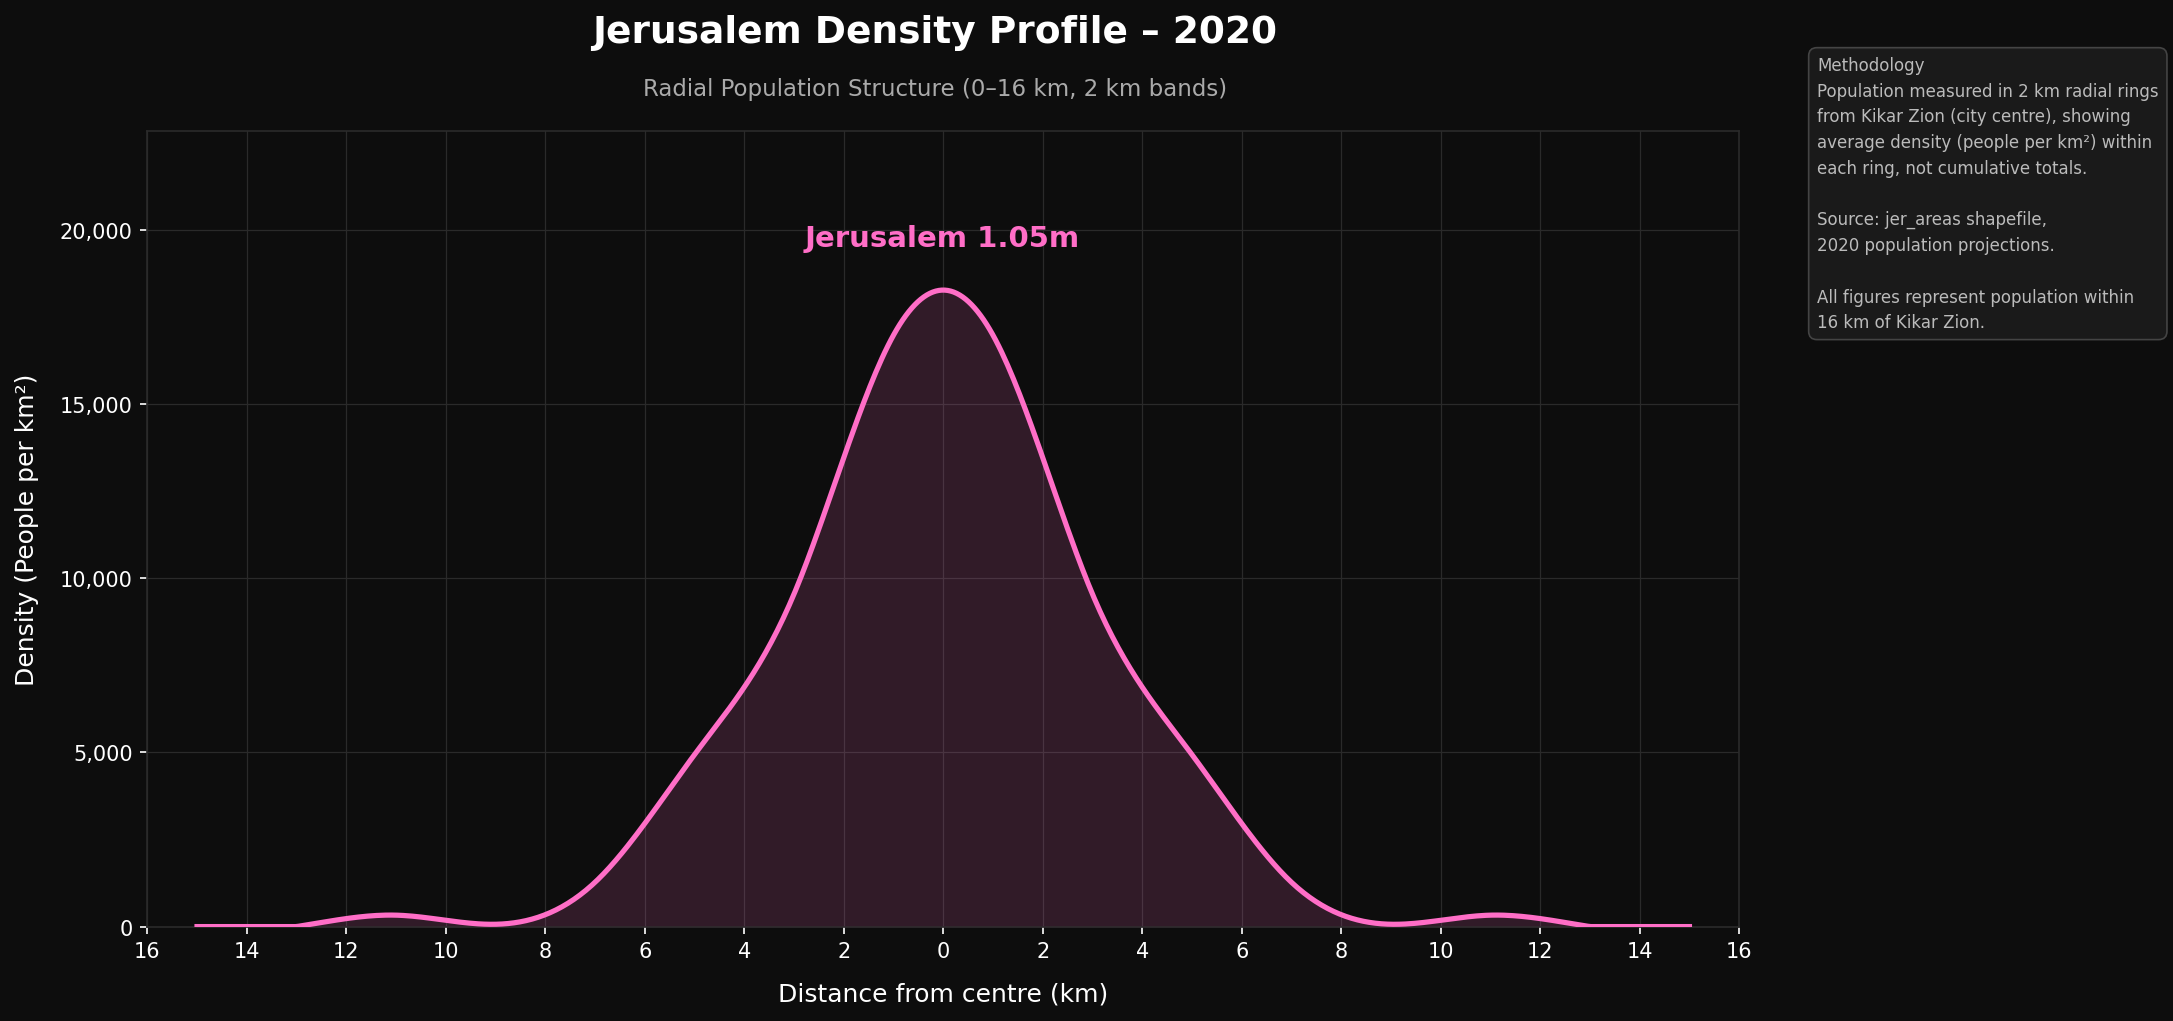
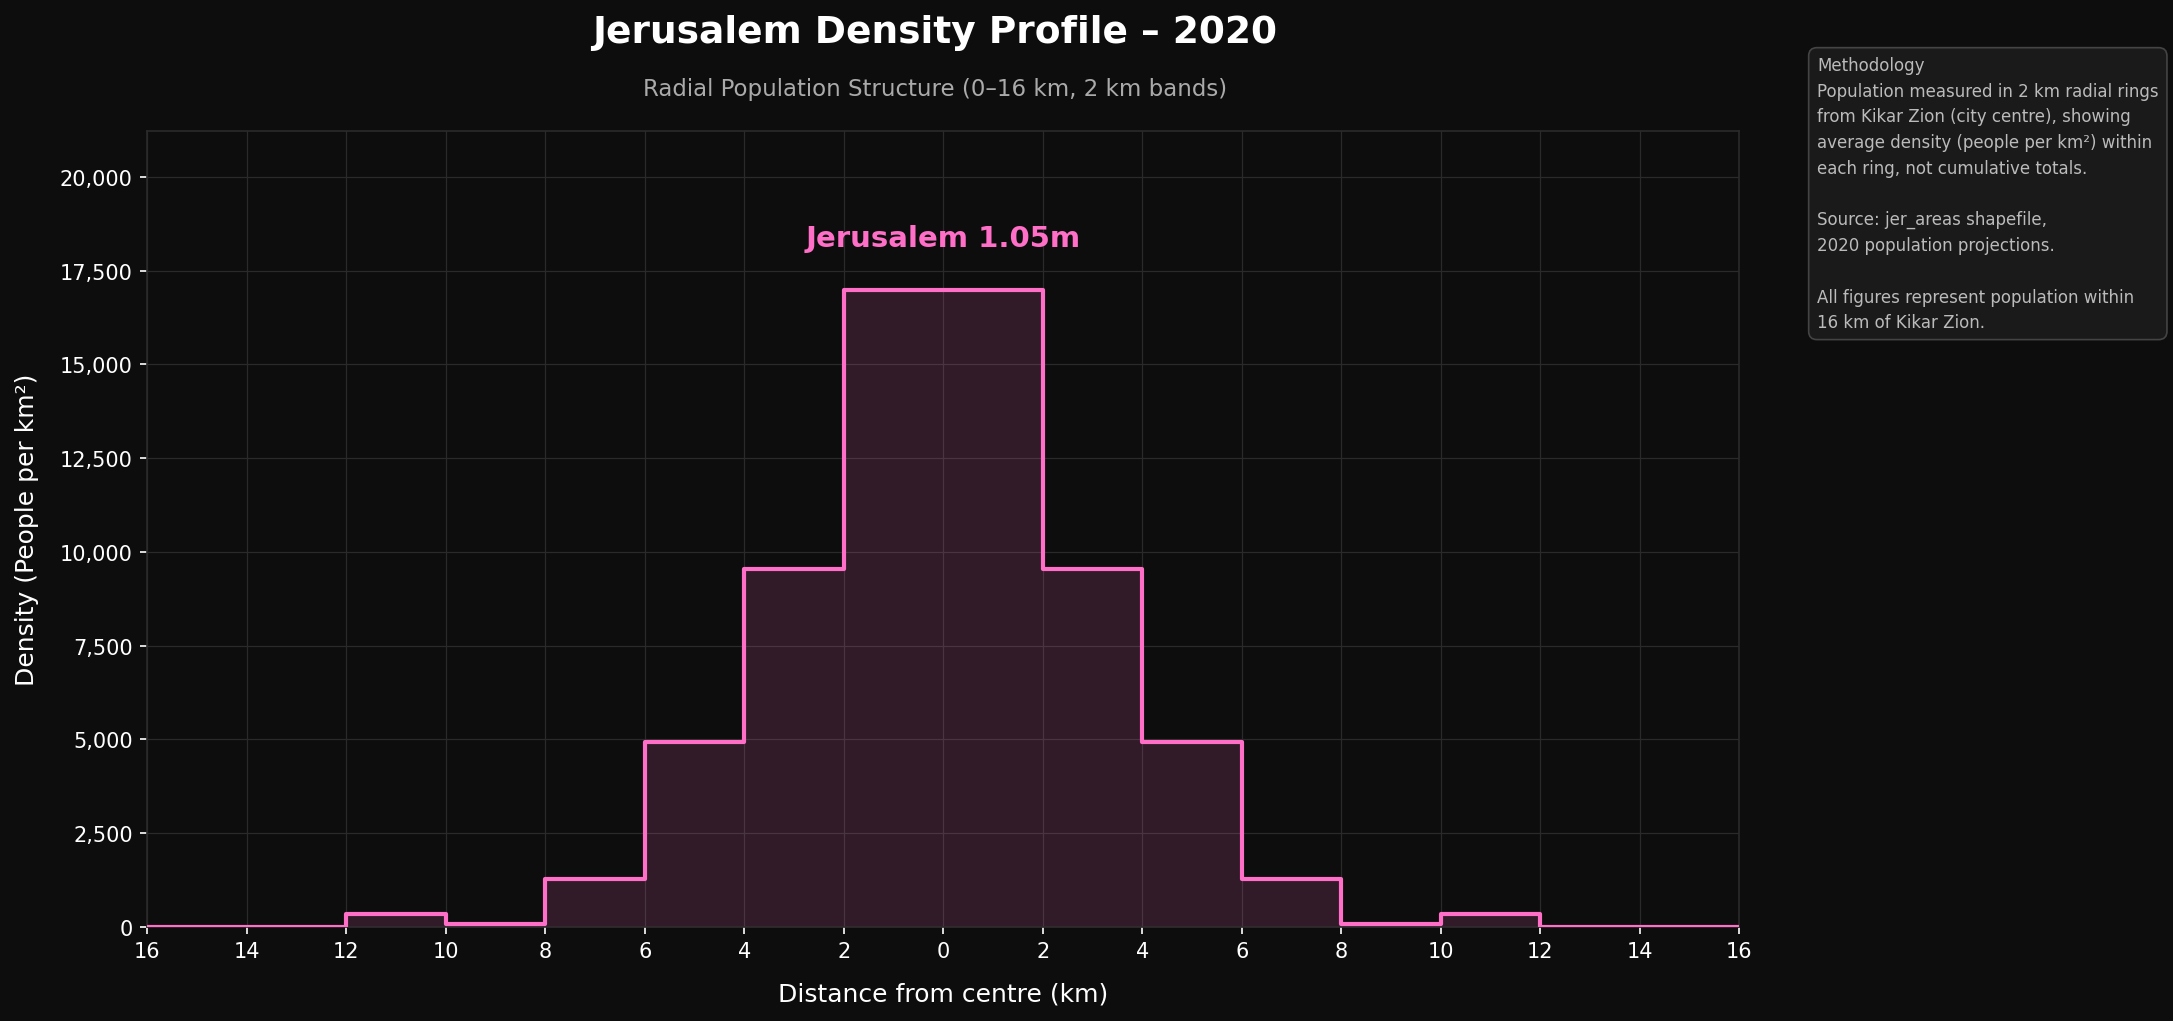
Fix density profiles: replace spline with discrete ring steps
All profile scripts now use flat step arrays (one constant value per 2 km
ring) instead of cubic spline interpolation between midpoints. The previous
approach created artificially smooth curves that implied continuous data
where there are only 8 discrete ring measurements.

https://claude.ai/code/session_01Wkc3oYCRGuMqTiP78fZipH

diff --git a/population_figure/asymmetric_profile.py b/population_figure/asymmetric_profile.py
@@ -13,7 +13,6 @@ import geopandas as gpd
 import matplotlib
 matplotlib.use("Agg")
 import matplotlib.pyplot as plt
-from scipy.interpolate import make_interp_spline
 from shapely.geometry import Point
 import os
 
@@ -86,64 +85,51 @@ print(f"\n  Jewish densities: {[f'{d:,.0f}' for d in jewish_dens]}")
 print(f"  Arab   densities: {[f'{d:,.0f}' for d in arab_dens]}")
 print(f"  Jewish total: {jewish_total:,.0f}   Arab total: {arab_total:,.0f}")
 
-# ── Build asymmetric x / y ────────────────────────────────────────────────────
-# Left  (negative x) = Jewish, reading outward from centre to left
-# Right (positive x) = Arab,   reading outward from centre to right
-x_left  = -midpoints[::-1]          # -15, -13, …, -1
-x_right =  midpoints                #   1,   3, …,  15
+# ── Build step arrays for each side ──────────────────────────────────────────
+rw = RING_WIDTH / 1000  # 2 km
 
-y_left  = np.array(jewish_dens[::-1])
-y_right = np.array(arab_dens)
+def steps_left(dens):
+    x, y = [], []
+    for r in range(len(dens) - 1, -1, -1):
+        x += [-(r + 1) * rw, -r * rw]
+        y += [dens[r], dens[r]]
+    return np.array(x), np.array(y)
 
-x = np.concatenate([x_left, x_right])
-y = np.concatenate([y_left, y_right])
+def steps_right(dens):
+    x, y = [], []
+    for r in range(len(dens)):
+        x += [r * rw, (r + 1) * rw]
+        y += [dens[r], dens[r]]
+    return np.array(x), np.array(y)
 
-x_s = np.linspace(x[0], x[-1], 500)
-y_s = np.clip(make_interp_spline(x, y, k=3)(x_s), 0, None)
-
-# Separate smooth halves for individual fills
-mask_left  = x_s <= 0
-mask_right = x_s >= 0
+xl, yl = steps_left(jewish_dens)
+xr, yr = steps_right(arab_dens)
 
 # ── Plot ──────────────────────────────────────────────────────────────────────
 fig, ax = plt.subplots(figsize=(14, 7), facecolor=BG_COLOR)
 ax.set_facecolor(BG_COLOR)
 
-# Left (Jewish) – cyan
-ax.plot(x_s[mask_left],  y_s[mask_left],  color=JEWISH_COLOR, linewidth=2.5, zorder=3)
-ax.fill_between(x_s[mask_left], y_s[mask_left], alpha=0.15, color=JEWISH_COLOR, zorder=2)
+ax.plot(xl, yl, color=JEWISH_COLOR, linewidth=2.0, zorder=3)
+ax.fill_between(xl, yl, alpha=0.15, color=JEWISH_COLOR, zorder=2)
 
-# Right (Arab) – orange
-ax.plot(x_s[mask_right], y_s[mask_right], color=ARAB_COLOR,   linewidth=2.5, zorder=3)
-ax.fill_between(x_s[mask_right], y_s[mask_right], alpha=0.15, color=ARAB_COLOR, zorder=2)
+ax.plot(xr, yr, color=ARAB_COLOR, linewidth=2.0, zorder=3)
+ax.fill_between(xr, yr, alpha=0.15, color=ARAB_COLOR, zorder=2)
 
-# Centre divider
 ax.axvline(0, color="#555555", linewidth=0.8, linestyle="--", zorder=4)
 
-# Labels
-jewish_peak_i = int(np.argmax(y_s[mask_left]))
-arab_peak_i   = int(np.argmax(y_s[mask_right]))
-x_lp = x_s[mask_left][jewish_peak_i]
-x_rp = x_s[mask_right][arab_peak_i]
-
-ax.text(x_lp, y_s[mask_left][jewish_peak_i]  * 1.06,
+# Labels at peak ring
+ax.text(-rw / 2, jewish_dens[0] * 1.06,
         f"Jewish  {jewish_total/1e6:.2f}m",
         color=JEWISH_COLOR, fontsize=13, fontweight="bold", ha="center", va="bottom")
-ax.text(x_rp, y_s[mask_right][arab_peak_i] * 1.06,
+ax.text( rw / 2, arab_dens[0] * 1.06,
         f"Arab  {arab_total/1e6:.2f}m",
         color=ARAB_COLOR, fontsize=13, fontweight="bold", ha="center", va="bottom")
-
-# Side labels
-ax.text(-14, ax.get_ylim()[1] * 0.02 if ax.get_ylim()[1] > 0 else 200,
-        "← Jewish", color=JEWISH_COLOR, fontsize=10, alpha=0.6, va="bottom")
-ax.text( 14, ax.get_ylim()[1] * 0.02 if ax.get_ylim()[1] > 0 else 200,
-        "Arab →",   color=ARAB_COLOR,   fontsize=10, alpha=0.6, va="bottom", ha="right")
 
 # Grid & axes
 ax.grid(color=GRID_COLOR, linewidth=0.6, linestyle="-", zorder=1)
 ax.set_axisbelow(True)
 ax.set_xlim(-16, 16)
-ax.set_ylim(0, y_s.max() * 1.28)
+ax.set_ylim(0, max(yl.max(), yr.max()) * 1.28)
 
 x_ticks = list(range(-16, 0, 2)) + list(range(0, 17, 2))
 ax.set_xticks(x_ticks)

diff --git a/population_figure/haredi_vs_jewish_profile.py b/population_figure/haredi_vs_jewish_profile.py
@@ -11,7 +11,6 @@ import geopandas as gpd
 import matplotlib
 matplotlib.use("Agg")
 import matplotlib.pyplot as plt
-from scipy.interpolate import make_interp_spline
 from shapely.geometry import Point
 import os
 
@@ -80,43 +79,49 @@ print(f"\n  Haredi densities:  {[f'{d:,.0f}' for d in haredi_dens]}")
 print(f"  Jewish densities:  {[f'{d:,.0f}' for d in jewish_dens]}")
 print(f"  Haredi total: {haredi_total:,.0f}   Jewish total: {jewish_total:,.0f}")
 
-# ── Smooth asymmetric curves ──────────────────────────────────────────────────
-x_left  = -midpoints[::-1]
-x_right =  midpoints
-x       = np.concatenate([x_left, x_right])
-x_s     = np.linspace(x[0], x[-1], 500)
-mask_l  = x_s <= 0
-mask_r  = x_s >= 0
+# ── Step arrays ───────────────────────────────────────────────────────────────
+rw = RING_WIDTH / 1000
 
-y_h = np.clip(make_interp_spline(x, np.concatenate([haredi_dens[::-1], haredi_dens]), k=3)(x_s), 0, None)
-y_j = np.clip(make_interp_spline(x, np.concatenate([jewish_dens[::-1], jewish_dens]), k=3)(x_s), 0, None)
+def steps_left(dens):
+    x, y = [], []
+    for r in range(len(dens) - 1, -1, -1):
+        x += [-(r + 1) * rw, -r * rw]
+        y += [dens[r], dens[r]]
+    return np.array(x), np.array(y)
+
+def steps_right(dens):
+    x, y = [], []
+    for r in range(len(dens)):
+        x += [r * rw, (r + 1) * rw]
+        y += [dens[r], dens[r]]
+    return np.array(x), np.array(y)
+
+xh, yh = steps_left(haredi_dens)
+xj, yj = steps_right(jewish_dens)
 
 # ── Plot ──────────────────────────────────────────────────────────────────────
 fig, ax = plt.subplots(figsize=(14, 7), facecolor=BG_COLOR)
 ax.set_facecolor(BG_COLOR)
 
-ax.plot(x_s[mask_l], y_h[mask_l], color=HAREDI_COLOR, linewidth=2.5, zorder=3)
-ax.fill_between(x_s[mask_l], y_h[mask_l], alpha=0.15, color=HAREDI_COLOR, zorder=2)
+ax.plot(xh, yh, color=HAREDI_COLOR, linewidth=2.0, zorder=3)
+ax.fill_between(xh, yh, alpha=0.15, color=HAREDI_COLOR, zorder=2)
 
-ax.plot(x_s[mask_r], y_j[mask_r], color=JEWISH_COLOR, linewidth=2.5, zorder=3)
-ax.fill_between(x_s[mask_r], y_j[mask_r], alpha=0.15, color=JEWISH_COLOR, zorder=2)
+ax.plot(xj, yj, color=JEWISH_COLOR, linewidth=2.0, zorder=3)
+ax.fill_between(xj, yj, alpha=0.15, color=JEWISH_COLOR, zorder=2)
 
 ax.axvline(0, color="#555555", linewidth=0.8, linestyle="--", zorder=4)
 
-# Peak labels
-h_pi = int(np.argmax(y_h[mask_l]))
-j_pi = int(np.argmax(y_j[mask_r]))
-ax.text(x_s[mask_l][h_pi], y_h[mask_l][h_pi] * 1.06,
+ax.text(-rw / 2, haredi_dens[0] * 1.06,
         f"Haredi  {haredi_total/1e3:.0f}k",
         color=HAREDI_COLOR, fontsize=13, fontweight="bold", ha="center", va="bottom")
-ax.text(x_s[mask_r][j_pi], y_j[mask_r][j_pi] * 1.06,
+ax.text( rw / 2, jewish_dens[0] * 1.06,
         f"Non-Haredi Jewish  {jewish_total/1e3:.0f}k",
         color=JEWISH_COLOR, fontsize=13, fontweight="bold", ha="center", va="bottom")
 
 ax.grid(color=GRID_COLOR, linewidth=0.6, linestyle="-", zorder=1)
 ax.set_axisbelow(True)
 ax.set_xlim(-16, 16)
-ax.set_ylim(0, max(y_h.max(), y_j.max()) * 1.28)
+ax.set_ylim(0, max(yh.max(), yj.max()) * 1.28)
 
 x_ticks = list(range(-16, 0, 2)) + list(range(0, 17, 2))
 ax.set_xticks(x_ticks)

diff --git a/population_figure/pop_vs_emp_profile.py b/population_figure/pop_vs_emp_profile.py
@@ -10,7 +10,6 @@ import geopandas as gpd
 import matplotlib
 matplotlib.use("Agg")
 import matplotlib.pyplot as plt
-from scipy.interpolate import make_interp_spline
 from shapely.geometry import Point
 import os
 
@@ -86,37 +85,41 @@ print(f"  Pop total: {pop_total:,.0f}   Emp total: {emp_total:,.0f}")
 x_left  = -midpoints[::-1]
 x_right =  midpoints
 
-x = np.concatenate([x_left, x_right])
-y_pop_sym = np.concatenate([pop_dens[::-1], pop_dens])   # full mirror for spline
-y_emp_sym = np.concatenate([emp_dens[::-1], emp_dens])
+rw = RING_WIDTH / 1000
 
-x_s = np.linspace(x[0], x[-1], 500)
-mask_l = x_s <= 0
-mask_r = x_s >= 0
+def steps_left(dens):
+    x, y = [], []
+    for r in range(len(dens) - 1, -1, -1):
+        x += [-(r + 1) * rw, -r * rw]
+        y += [dens[r], dens[r]]
+    return np.array(x), np.array(y)
 
-y_pop_s = np.clip(make_interp_spline(x, y_pop_sym, k=3)(x_s), 0, None)
-y_emp_s = np.clip(make_interp_spline(x, y_emp_sym, k=3)(x_s), 0, None)
+def steps_right(dens):
+    x, y = [], []
+    for r in range(len(dens)):
+        x += [r * rw, (r + 1) * rw]
+        y += [dens[r], dens[r]]
+    return np.array(x), np.array(y)
+
+xl_pop, yl_pop = steps_left(pop_dens)
+xr_emp, yr_emp = steps_right(emp_dens)
 
 # ── Plot ──────────────────────────────────────────────────────────────────────
 fig, ax = plt.subplots(figsize=(14, 7), facecolor=BG_COLOR)
 ax.set_facecolor(BG_COLOR)
 
-ax.plot(x_s[mask_l], y_pop_s[mask_l], color=POP_COLOR, linewidth=2.5, zorder=3)
-ax.fill_between(x_s[mask_l], y_pop_s[mask_l], alpha=0.15, color=POP_COLOR, zorder=2)
+ax.plot(xl_pop, yl_pop, color=POP_COLOR, linewidth=2.0, zorder=3)
+ax.fill_between(xl_pop, yl_pop, alpha=0.15, color=POP_COLOR, zorder=2)
 
-ax.plot(x_s[mask_r], y_emp_s[mask_r], color=EMP_COLOR, linewidth=2.5, zorder=3)
-ax.fill_between(x_s[mask_r], y_emp_s[mask_r], alpha=0.15, color=EMP_COLOR, zorder=2)
+ax.plot(xr_emp, yr_emp, color=EMP_COLOR, linewidth=2.0, zorder=3)
+ax.fill_between(xr_emp, yr_emp, alpha=0.15, color=EMP_COLOR, zorder=2)
 
 ax.axvline(0, color="#555555", linewidth=0.8, linestyle="--", zorder=4)
 
-# Peak labels
-pop_pi = int(np.argmax(y_pop_s[mask_l]))
-emp_pi = int(np.argmax(y_emp_s[mask_r]))
-
-ax.text(x_s[mask_l][pop_pi], y_pop_s[mask_l][pop_pi] * 1.06,
+ax.text(-rw / 2, pop_dens[0] * 1.06,
         f"Population  {pop_total/1e6:.2f}m",
         color=POP_COLOR, fontsize=13, fontweight="bold", ha="center", va="bottom")
-ax.text(x_s[mask_r][emp_pi], y_emp_s[mask_r][emp_pi] * 1.06,
+ax.text( rw / 2, emp_dens[0] * 1.06,
         f"Employment  {emp_total/1e3:.0f}k",
         color=EMP_COLOR, fontsize=13, fontweight="bold", ha="center", va="bottom")
 
@@ -124,7 +127,7 @@ ax.text(x_s[mask_r][emp_pi], y_emp_s[mask_r][emp_pi] * 1.06,
 ax.grid(color=GRID_COLOR, linewidth=0.6, linestyle="-", zorder=1)
 ax.set_axisbelow(True)
 ax.set_xlim(-16, 16)
-ax.set_ylim(0, max(y_pop_s.max(), y_emp_s.max()) * 1.28)
+ax.set_ylim(0, max(yl_pop.max(), yr_emp.max()) * 1.28)
 
 x_ticks = list(range(-16, 0, 2)) + list(range(0, 17, 2))
 ax.set_xticks(x_ticks)

diff --git a/population_figure/density_profile.py b/population_figure/density_profile.py
@@ -12,7 +12,6 @@ import geopandas as gpd
 import matplotlib
 matplotlib.use("Agg")
 import matplotlib.pyplot as plt
-from scipy.interpolate import make_interp_spline
 from shapely.geometry import Point
 import os
 
@@ -90,21 +89,25 @@ def make_figure(year):
     pop_label = f"{total_pop / 1e6:.2f}m"
     print(f"  Total within 16 km: {total_pop:,.0f}  → {pop_label}")
 
-    x = np.concatenate([-MIDPOINTS[::-1], MIDPOINTS])
-    y = np.concatenate([ring_densities[::-1], ring_densities])
-
-    x_smooth = np.linspace(x[0], x[-1], 500)
-    y_smooth  = np.clip(make_interp_spline(x, y, k=3)(x_smooth), 0, None)
+    # Build symmetric step arrays (flat within each 2 km ring)
+    rw = RING_WIDTH / 1000  # 2 km
+    x_s, y_s = [], []
+    for r in range(N_RINGS - 1, -1, -1):   # left side: outer → inner
+        x_s += [-(r + 1) * rw, -r * rw]
+        y_s += [ring_densities[r], ring_densities[r]]
+    for r in range(N_RINGS):               # right side: inner → outer
+        x_s += [r * rw, (r + 1) * rw]
+        y_s += [ring_densities[r], ring_densities[r]]
+    x_s, y_s = np.array(x_s), np.array(y_s)
 
     fig, ax = plt.subplots(figsize=(14, 7), facecolor=BG_COLOR)
     ax.set_facecolor(BG_COLOR)
 
-    ax.plot(x_smooth, y_smooth, color=CITY_COLOR, linewidth=2.5, zorder=3)
-    ax.fill_between(x_smooth, y_smooth, alpha=FILL_ALPHA, color=CITY_COLOR, zorder=2)
+    ax.plot(x_s, y_s, color=CITY_COLOR, linewidth=2.0, zorder=3)
+    ax.fill_between(x_s, y_s, alpha=FILL_ALPHA, color=CITY_COLOR, zorder=2)
 
-    peak_i = int(np.argmax(y_smooth))
     ax.text(
-        x_smooth[peak_i], y_smooth[peak_i] * 1.06,
+        0, ring_densities[0] * 1.06,
         f"Jerusalem {pop_label}",
         color=CITY_COLOR, fontsize=14, fontweight="bold",
         ha="center", va="bottom",
@@ -114,7 +117,7 @@ def make_figure(year):
     ax.set_axisbelow(True)
 
     ax.set_xlim(-16, 16)
-    ax.set_ylim(0, y_smooth.max() * 1.25)
+    ax.set_ylim(0, y_s.max() * 1.25)
     x_ticks = list(range(-16, 0, 2)) + list(range(0, 17, 2))
     ax.set_xticks(x_ticks)
     ax.set_xticklabels([str(abs(v)) for v in x_ticks], color=TEXT_COLOR, fontsize=10)

diff --git a/population_figure/combined_profile.py b/population_figure/combined_profile.py
@@ -10,7 +10,6 @@ import geopandas as gpd
 import matplotlib
 matplotlib.use("Agg")
 import matplotlib.pyplot as plt
-from scipy.interpolate import make_interp_spline
 from shapely.geometry import Point
 import os
 
@@ -81,21 +80,22 @@ for cfg in YEARS:
     total_pop = (inter_frac_16 * pop).fillna(0).sum()
     pop_label = f"{total_pop / 1e6:.2f}m"
 
-    x = np.concatenate([-midpoints[::-1], midpoints])
-    y = np.concatenate([densities[::-1], densities])
-
-    x_s = np.linspace(x[0], x[-1], 500)
-    y_s = np.clip(make_interp_spline(x, y, k=3)(x_s), 0, None)
+    rw = RING_WIDTH / 1000
+    x_s, y_s = [], []
+    for r in range(N_RINGS - 1, -1, -1):
+        x_s += [-(r + 1) * rw, -r * rw]
+        y_s += [densities[r], densities[r]]
+    for r in range(N_RINGS):
+        x_s += [r * rw, (r + 1) * rw]
+        y_s += [densities[r], densities[r]]
+    x_s, y_s = np.array(x_s), np.array(y_s)
     y_max_global = max(y_max_global, y_s.max())
 
-    ax.plot(x_s, y_s, color=color, linewidth=2.5, zorder=3, label=f"{year}")
+    ax.plot(x_s, y_s, color=color, linewidth=2.0, zorder=3, label=f"{year}")
     ax.fill_between(x_s, y_s, alpha=0.12, color=color, zorder=2)
 
-    peak_i = int(np.argmax(y_s))
-    # Stagger labels slightly so they don't overlap
-    v_offset = cfg["label_offset"]
     ax.text(
-        x_s[peak_i], y_s[peak_i] * v_offset,
+        0, densities[0] * cfg["label_offset"],
         f"Jerusalem {year}  {pop_label}",
         color=color, fontsize=13, fontweight="bold",
         ha="center", va="bottom",

diff --git a/population_figure/combined_profile_jewish.py b/population_figure/combined_profile_jewish.py
@@ -12,7 +12,6 @@ import geopandas as gpd
 import matplotlib
 matplotlib.use("Agg")
 import matplotlib.pyplot as plt
-from scipy.interpolate import make_interp_spline
 from shapely.geometry import Point
 import os
 
@@ -99,19 +98,22 @@ for cfg in YEARS:
     total_pop = (inter_frac_16 * pop).fillna(0).sum()
     pop_label = f"{total_pop / 1e6:.2f}m"
 
-    x = np.concatenate([-midpoints[::-1], midpoints])
-    y = np.concatenate([densities[::-1], densities])
-
-    x_s = np.linspace(x[0], x[-1], 500)
-    y_s = np.clip(make_interp_spline(x, y, k=3)(x_s), 0, None)
+    rw = RING_WIDTH / 1000
+    x_s, y_s = [], []
+    for r in range(N_RINGS - 1, -1, -1):
+        x_s += [-(r + 1) * rw, -r * rw]
+        y_s += [densities[r], densities[r]]
+    for r in range(N_RINGS):
+        x_s += [r * rw, (r + 1) * rw]
+        y_s += [densities[r], densities[r]]
+    x_s, y_s = np.array(x_s), np.array(y_s)
     y_max_global = max(y_max_global, y_s.max())
 
-    ax.plot(x_s, y_s, color=color, linewidth=2.5, zorder=3)
+    ax.plot(x_s, y_s, color=color, linewidth=2.0, zorder=3)
     ax.fill_between(x_s, y_s, alpha=0.12, color=color, zorder=2)
 
-    peak_i = int(np.argmax(y_s))
     ax.text(
-        x_s[peak_i], y_s[peak_i] * cfg["label_offset"],
+        0, densities[0] * cfg["label_offset"],
         f"Jerusalem (Jewish) {year}  {pop_label}",
         color=color, fontsize=13, fontweight="bold",
         ha="center", va="bottom",
